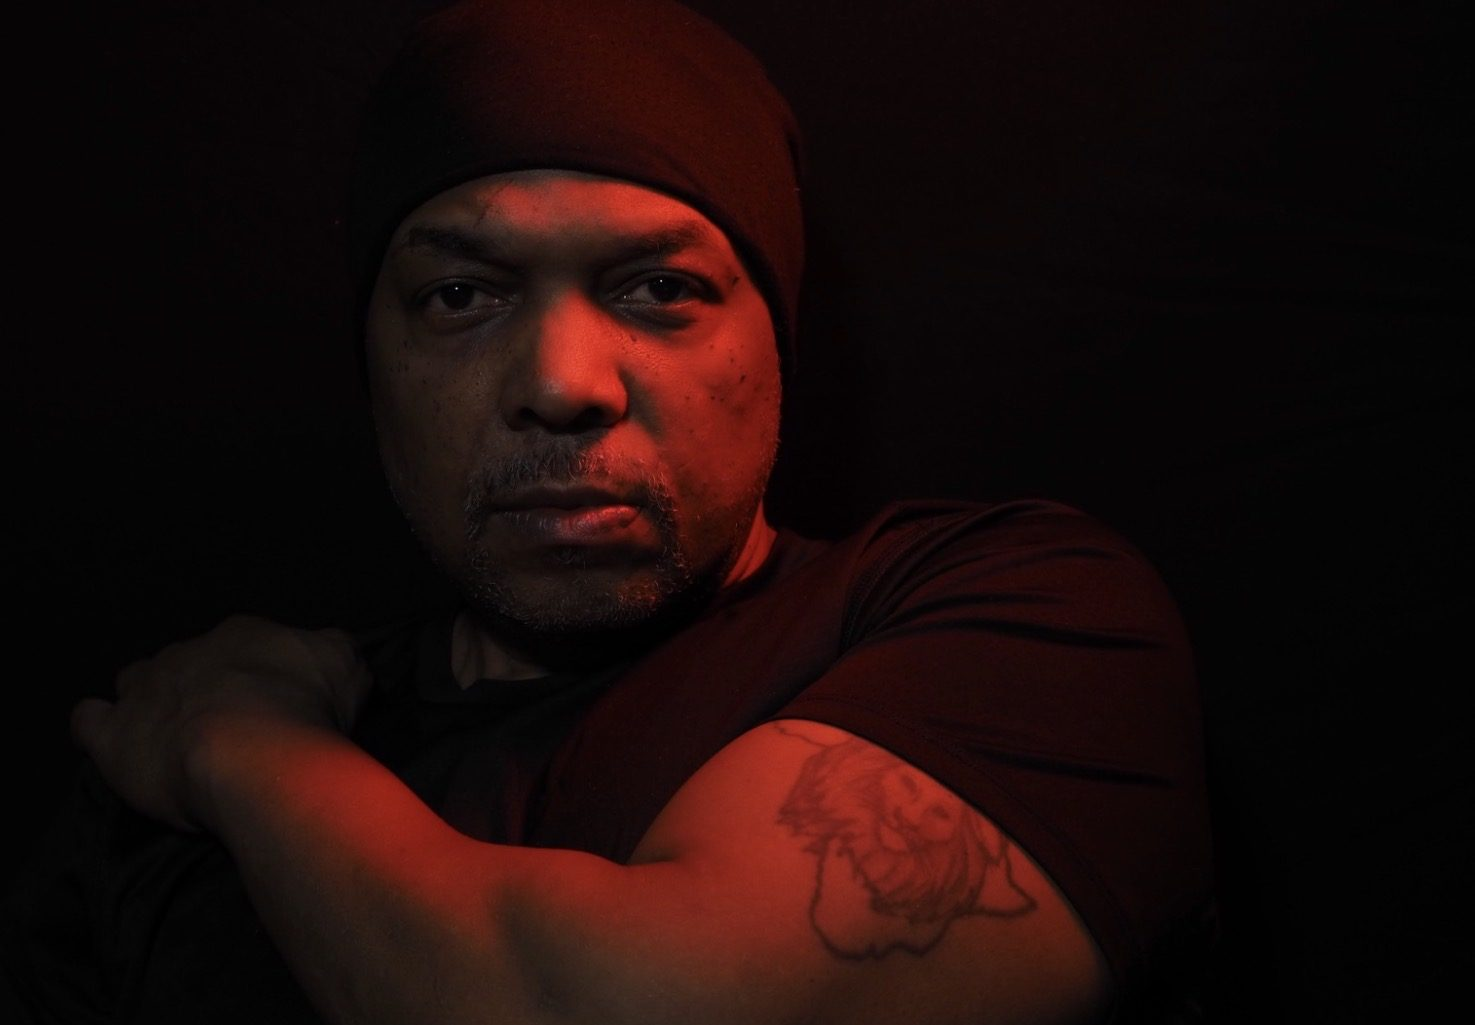
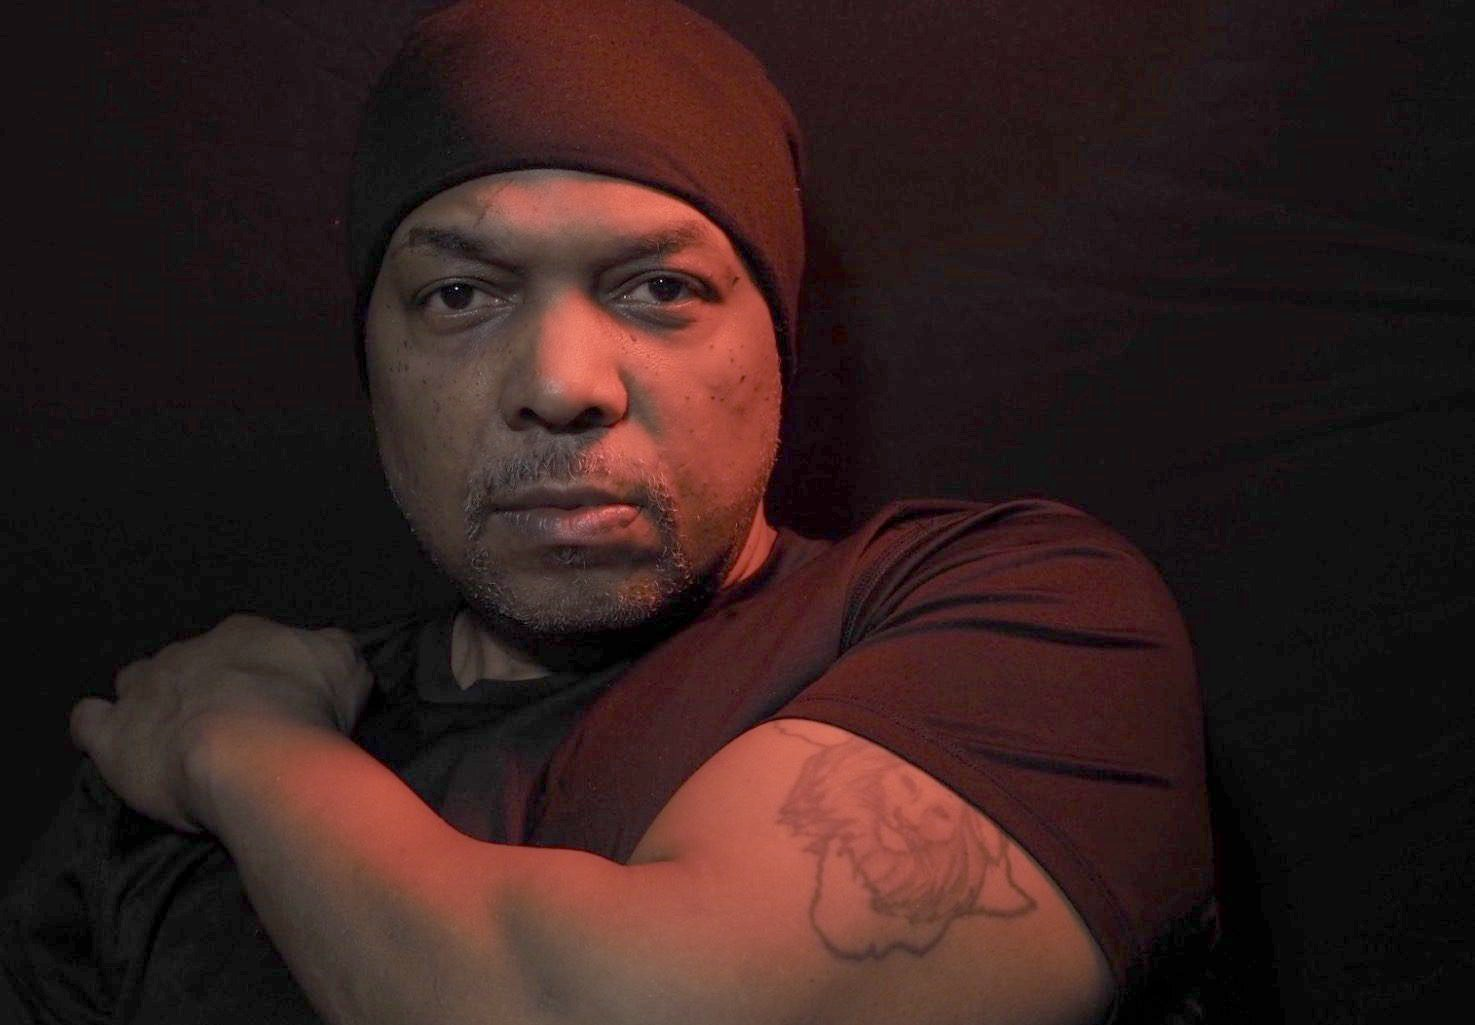
Brighten hero portrait so the tattoo reads; shrink About portrait to show the full photo
Claude-Session: https://claude.ai/code/session_019GhfoUxYrq7FiaVx9WaXrX

diff --git a/index.html b/index.html
@@ -99,10 +99,10 @@ section{padding:clamp(72px,11vw,150px) 0;position:relative}
 .hero{min-height:100svh;display:flex;align-items:flex-end;padding:120px 0 56px;overflow:hidden}
 .hero-bg{position:absolute;inset:0;background:radial-gradient(900px 500px at 75% 35%,#4a0f0a 0%,#150807 55%,#0b0707 100%);overflow:hidden}
 .hero-bg::before{content:"";position:absolute;top:0;bottom:0;right:-6%;width:66%;background:url("images/hero-red-landscape.jpg") 38% 30%/cover no-repeat}
-.hero-bg::after{content:"";position:absolute;inset:0;background:linear-gradient(90deg,#0b0707 0%,#0b0707 28%,rgba(11,7,7,.55) 52%,rgba(11,7,7,.1) 100%),linear-gradient(180deg,rgba(11,7,7,.5) 0%,rgba(11,7,7,0) 30%,rgba(11,7,7,.95) 100%)}
+.hero-bg::after{content:"";position:absolute;inset:0;background:linear-gradient(90deg,#0b0707 0%,#0b0707 36%,rgba(11,7,7,.6) 46%,rgba(11,7,7,.15) 58%,rgba(11,7,7,0) 70%),linear-gradient(180deg,rgba(11,7,7,.25) 0%,rgba(11,7,7,0) 25%,rgba(11,7,7,0) 82%,rgba(11,7,7,.75) 100%)}
 @media(max-width:900px){
-  .hero-bg::before{right:0;left:0;width:100%;background:url("images/hero-red-tight.jpg") center 8%/cover no-repeat}
-  .hero-bg::after{background:linear-gradient(180deg,rgba(11,7,7,.35) 0%,rgba(11,7,7,.35) 30%,rgba(11,7,7,.92) 62%,#0b0707 100%)}
+  .hero-bg::before{right:0;left:0;bottom:auto;height:72%;width:100%;background:url("images/hero-red-tight.jpg") 62% 10%/cover no-repeat}
+  .hero-bg::after{background:linear-gradient(180deg,rgba(11,7,7,.15) 0%,rgba(11,7,7,0) 30%,rgba(11,7,7,0) 52%,rgba(11,7,7,.85) 72%,#0b0707 86%)}
 }
 .hero .wrap{position:relative;z-index:2;width:100%}
 .hero h1{font-size:clamp(4.2rem,15vw,12.5rem);margin:18px 0 22px;line-height:.9}
@@ -190,13 +190,13 @@ section{padding:clamp(72px,11vw,150px) 0;position:relative}
 /* about */
 .about{background:var(--bg-2);border-top:1px solid var(--line)}
 .about-grid{display:grid;grid-template-columns:.9fr 1.1fr;gap:clamp(30px,6vw,90px);align-items:center}
-.about-img{aspect-ratio:4/5;width:100%;object-fit:cover;object-position:center;border-radius:6px;background:linear-gradient(160deg,#2c2118,#0e0a09)}
+.about-img{aspect-ratio:1200/1727;width:auto;height:auto;max-width:100%;max-height:min(540px,72vh);object-fit:contain;justify-self:center;border-radius:6px;background:linear-gradient(160deg,#2c2118,#0e0a09)}
 .about-copy p{color:#cfc4bf;margin-top:18px;max-width:560px}
 .about-copy h2{margin:14px 0 8px}
 .rule{margin-top:28px;padding-left:20px;border-left:2px solid var(--accent);font-family:var(--serif);font-size:1.5rem;line-height:1.3;color:var(--text);max-width:520px}
 .bio{margin-top:32px;border:1px solid var(--line);border-radius:8px;padding:22px 24px}
 .bio p{margin-top:10px;font-size:.92rem;color:var(--muted)}
-@media(max-width:860px){.about-grid{grid-template-columns:1fr}.about-img{aspect-ratio:1/1}}
+@media(max-width:860px){.about-grid{grid-template-columns:1fr}.about-img{max-height:440px}}
 
 /* analyst desk */
 .desk{padding:46px 0;border-block:1px solid var(--line);background:#0e0909}
